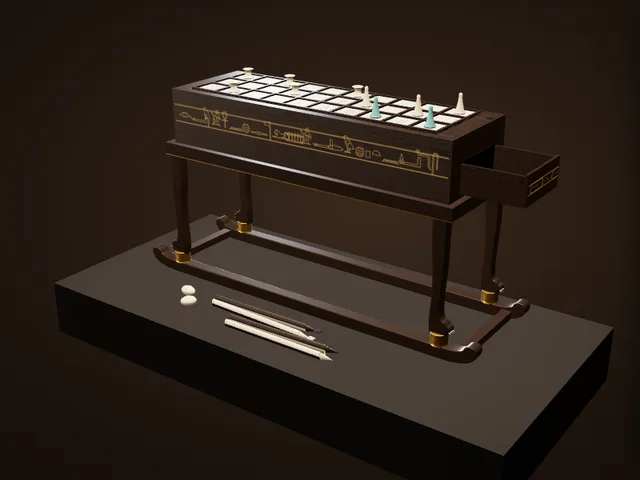
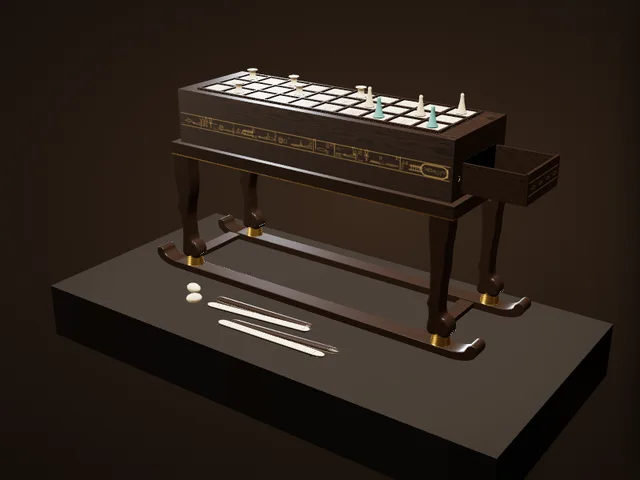
博物館：セネト盤の脚・そり・銘文帯・引き出し・投げ棒を博物館写真に合わせて作り直し
Claude-Session: https://claude.ai/code/session_01EiWRAZTxRF5M5nk5vdR2jJ

diff --git a/atlas/museum/ex/senet.js b/atlas/museum/ex/senet.js
@@ -35,13 +35,18 @@
       const textTex = (len, ht, glyphs) => { const PX = 1536, s = PX / len; return K.tex(PX, Math.round(ht * s), (g, w, h) => {
         g.drawImage(ebonyT.image, 0, 0, w, h); const yel = 'rgba(212,178,104,.9)';
         // one register of text between two incised lines, in the upper middle of the side (photographs in the Egyptian Museum)
-        const cy = h * (ht > 5 ? .42 : .5), bh = Math.min(h * .3, s * 2.4);
-        g.strokeStyle = yel; g.lineWidth = s * .08; [cy - bh / 2, cy + bh / 2].forEach(y => { g.beginPath(); g.moveTo(s * .35, y); g.lineTo(w - s * .35, y); g.stroke(); });
+        const cy = h * (ht > 5 ? .53 : .5), bh = Math.min(h * .34, s * 1.55);   // (the museum's side view: a narrow band a little below the middle)
+        g.strokeStyle = yel; g.lineWidth = s * .05; [cy - bh / 2 - s * .12, cy + bh / 2 + s * .12].forEach(y => { g.beginPath(); g.moveTo(s * .35, y); g.lineTo(w - s * .35, y); g.stroke(); });
         g.fillStyle = yel; g.textBaseline = 'middle'; const FS = bh * .9; g.font = `${Math.round(FS)}px ${HF}`;
         const cart = (x) => { const cw = s * 3.6, ch = bh * .92, y0 = cy - ch / 2; g.lineWidth = s * .09; g.beginPath(); g.roundRect(x, y0, cw, ch, ch / 2); g.stroke(); g.beginPath(); g.moveTo(x + cw, y0 + ch * .1); g.lineTo(x + cw, y0 + ch * .9); g.stroke();
           g.textAlign = 'center'; g.font = `${Math.round(FS * .7)}px ${HF}`; g.fillText('\u{131F3}\u{1319F}\u{133E5}\u{1339F}', x + cw / 2, cy); g.font = `${Math.round(FS)}px ${HF}`; g.textAlign = 'left'; return cw; };
         let x = s * 1.0; g.textAlign = 'left'; let i = 0;
-        while (x < w - s * 2) { const c = glyphs[i % glyphs.length]; if (c === 'C') { x += cart(x) + s * .4; } else { g.fillText(c, x, cy); x += Math.min(g.measureText(c).width, FS * 1.05) + s * .05; } i++; }
+        // signs set close, small ones stacked two high in one square (as Egyptian texts are composed); the king's name in its ring at the far end
+        const endX = w - s * (ht > 5 ? 4.6 : 1.0);
+        while (x < endX) { const c = glyphs[i % glyphs.length]; i++; if (c === 'C') continue;
+          if (i % 3 === 0) { const c2 = glyphs[(i * 7 + 3) % glyphs.length]; g.font = `${Math.round(FS * .52)}px ${HF}`; const wd = Math.max(g.measureText(c).width, c2 === 'C' ? 0 : g.measureText(c2).width); g.fillText(c, x, cy - bh * .25); if (c2 !== 'C') g.fillText(c2, x, cy + bh * .25); g.font = `${Math.round(FS)}px ${HF}`; x += Math.min(wd, FS * .7) + s * .06; }
+          else { g.fillText(c, x, cy); x += Math.min(g.measureText(c).width, FS * 1.0) + s * .04; } }
+        if (ht > 5) cart(w - s * 4.3);
       }); };
       const LINE = ['\u{13079}', '\u{1309D}', '\u{13190}', '\u{13000}', '\u{132F9}', '\u{13216}', '\u{1340D}', '\u{13283}', '\u{132B9}', '\u{130ED}', '\u{13290}', '\u{13000}', '\u{1309D}', '\u{1308B}', '\u{13171}', '\u{1340D}', '\u{132AA}', '\u{133CF}', '\u{13216}', '\u{1309E}', '\u{13193}', '\u{132F4}', '\u{1308B}', '\u{13000}', '\u{132B9}', 'C'];
       const sideT = textTex(L, BH, LINE), endT = textTex(W, BH, LINE.slice(4));
@@ -81,7 +86,8 @@
       dpart(.35, DHt, DWd, DL / 2 - .175, 0, 0, [K.mat({ map: dT, color: '#ffffff', roughness: .5, clearcoat: .35 }), ebony, ebony, ebony, ebony, ebony]);   // front
       dpart(DL - .35, DHt - .2, .3, -.175, -.1, DWd / 2 - .15); dpart(DL - .35, DHt - .2, .3, -.175, -.1, -DWd / 2 + .15);   // sides
       dpart(.3, DHt - .2, DWd - .6, -DL / 2 + .15, -.1, 0); dpart(DL - .35, .25, DWd - .6, -.175, -DHt / 2 + .125, 0, K.mat({ color: '#4a3324', roughness: .85 }));   // back, rough floor
-      [-3.2, 3.2].forEach(z => { const sc = new TT.Mesh(new TT.BoxGeometry(.05, .5, .9), K.mat({ color: '#2a1a10', roughness: .9 })); sc.position.set(DL / 2 + .01, 1.2, z); dg.add(sc); });   // where the bolt's staples were wrenched away
+      { const hm = K.mat({ color: '#0a0605', roughness: 1 }), hg = new TT.CylinderGeometry(.11, .11, .06, 10); hg.rotateZ(Math.PI / 2); [[-1.5, .45], [-1.5, -.45], [1.5, .45], [1.5, -.45]].forEach(([z, y]) => { const sc = new TT.Mesh(hg, hm); sc.position.set(DL / 2 + .005, y, z); dg.add(sc); }); }   // four small holes: the staples of the bolt, wrenched away (the museum's photograph)
+      { const st = new TT.Mesh(new TT.TorusGeometry(.32, .07, 8, 16, Math.PI), gold); st.rotation.set(0, Math.PI / 2, -Math.PI / 2); st.position.set(L / 2 + .02, Y0 + .9 + DHt / 2, DWd / 2 + .85); G.add(st); }   // one gold staple still on the box's end, beside the drawer   // where the bolt's staples were wrenched away
       const hole = new TT.Mesh(new TT.BoxGeometry(.05, DHt, DWd), K.mat({ color: '#080504', roughness: 1 })); hole.position.set(L / 2 + .03, Y0 + .9 + DHt / 2, 0); G.add(hole);   // the empty opening in the box's end
       /* ---------- pieces on the board, as the set is shown in the museum: reels and cones (ivory; two cones blue faience) ---------- */
       const faience = K.mat({ color: '#6fa9a0', roughness: .45, clearcoat: .3 });
@@ -97,43 +103,47 @@
       [[RL - 1.8, .3, .6, 0, RW / 2 - 1.2], [RL - 1.8, .3, .6, 0, -RW / 2 + 1.2]].forEach(([w, h, d, x, z]) => { const m = new TT.Mesh(new TT.BoxGeometry(w, h, d), ebony); m.position.set(x, Y0 - .15, z); G.add(m); });
       const gilt = (w, d, x, z) => { const m = new TT.Mesh(new TT.BoxGeometry(w, .14, d), gold); m.position.set(x, 20.2 - RH + .07, z); G.add(m); };   // gold bands at the foot of the frame
       gilt(RL + .02, .92, 0, RW / 2 - .45); gilt(RL + .02, .92, 0, -RW / 2 + .45);
-      // a feline leg seen from the side (paw forward to +x), extruded and rounded
-      const sh = new TT.Shape();
-      // (after the photographs: a slender, nearly straight leg, a little wider at the top, a slight backward bend above the ankle,
-      //  a lion's paw with spread toes on the drum)
-      sh.moveTo(-.85, 10.3); sh.quadraticCurveTo(-.95, 8.2, -.6, 6.4); sh.quadraticCurveTo(-.4, 4.2, -.55, 2.6); sh.quadraticCurveTo(-.75, 1.4, -.65, .4); sh.lineTo(-.6, .02);
-      sh.lineTo(1.25, .02); sh.quadraticCurveTo(1.75, .08, 1.65, .55); sh.quadraticCurveTo(1.5, .95, .95, 1.0); sh.quadraticCurveTo(.45, 1.15, .4, 2.0);
-      sh.quadraticCurveTo(.35, 3.4, .55, 4.8); sh.quadraticCurveTo(.75, 6.6, .7, 8.2); sh.quadraticCurveTo(.68, 9.4, .85, 10.3); sh.lineTo(-.85, 10.3);
-      const legG = new TT.ExtrudeGeometry(sh, { depth: 1.15, bevelEnabled: true, bevelThickness: .24, bevelSize: .22, bevelSegments: 4, curveSegments: 10 });
-      legG.translate(0, 0, -.575);
+      // the legs: a lion's — two forelegs at the drawer's end, two hind legs behind, all four facing the same way (the museum's side
+      // view): a broad block under the frame, the limb narrowing to the ankle, the hind legs bent back at the hock; the paw on a ribbed gold drum
+      const prof = pts => { const sh = new TT.Shape(); sh.moveTo(pts[0][0], pts[0][1]); sh.splineThru(pts.slice(1).map(([x, y]) => new TT.Vector2(x, y))); sh.closePath(); return sh; };
+      const PAW = [[-.62, .02], [.6, .0], [1.5, .0], [1.92, .2], [1.9, .72], [1.45, 1.12], [.85, 1.32]];
+      const fore = prof([[-1.25, 10.3], [-1.25, 9.4], [-1.05, 8.2], [-.78, 6.6], [-.66, 4.8], [-.7, 3.2], [-.92, 2.6], [-.7, 2.15], [-.62, 1.2], [-.78, .5], ...PAW, [.52, 1.9], [.5, 3.0], [.6, 4.4], [.86, 5.9], [.9, 7.4], [1.1, 8.6], [1.25, 9.4], [1.25, 10.3]]);
+      const hind = prof([[-1.25, 10.3], [-1.3, 9.4], [-1.42, 8.2], [-1.1, 6.9], [-.95, 5.9], [-1.3, 5.0], [-.78, 4.3], [-.52, 3.2], [-.5, 2.0], [-.72, .6], ...PAW, [.5, 1.9], [.36, 3.0], [.3, 4.2], [.62, 5.4], [1.15, 6.8], [1.32, 8.0], [1.25, 9.4], [1.25, 10.3]]);
+      const legOpt = { depth: 1.5, bevelEnabled: true, bevelThickness: .3, bevelSize: .28, bevelSegments: 5, curveSegments: 6 };
+      const foreG = new TT.ExtrudeGeometry(fore, legOpt), hindG = new TT.ExtrudeGeometry(hind, legOpt); [foreG, hindG].forEach(q => q.translate(0, 0, -.75));
       const clawG = new TT.ConeGeometry(.1, .4, 8); clawG.rotateZ(-Math.PI / 2);
-      const toeG = new TT.SphereGeometry(.2, 12, 8); toeG.scale(2.6, 2.9, .84);
-      const drumG = new TT.LatheGeometry([[0, -.9], [1.15, -.9], [1.2, -.75], [1.05, -.6], [1.18, -.45], [1.05, -.3], [1.18, -.15], [1.05, 0], [1.18, .15], [1.05, .3], [1.18, .45], [1.05, .6], [1.2, .75], [1.15, .9], [0, .9]].map(([x, y]) => new TT.Vector2(x, y)), 28);
-      const LX = RL / 2 - 1.6, LZ = RW / 2 - .9, LS = (20.2 - RH - 3.3) / 10.3;   // (the legs stretched to the stand's height)
+      const toeG = new TT.SphereGeometry(.2, 12, 8); toeG.scale(2.7, 2.9, .95);
+      const drumG = new TT.LatheGeometry([[0, -.9], [1.3, -.9], [1.36, -.78], [1.2, -.62], [1.3, -.46], [1.14, -.3], [1.24, -.14], [1.08, .02], [1.18, .18], [1.02, .34], [1.12, .5], [.98, .66], [1.06, .8], [1.0, .9], [0, .9]].map(([x, y]) => new TT.Vector2(x, y)), 28);
+      const RUN = .95, LX = RL / 2 - 1.9, LZ = RW / 2 - 1.05, LY = RUN + 1.8, LS = (20.2 - RH - LY) / 10.3;   // the runner's thickness; the legs stretched to the stand's height
       for (const sx of [1, -1]) for (const sz of [1, -1]) {
         const x = sx * LX, z = sz * LZ;
-        const leg = new TT.Mesh(legG, ebony); leg.position.set(x, 3.3, z); leg.scale.y = LS; leg.scale.x = sx; leg.scale.z = .85; G.add(leg);   // the paws face outwards, to the ends
-        // the lion's paw: four rounded toes side by side, an ivory claw at the tip of each (Carter: "ivory claws"; the photographs)
-        for (let k = -1.5; k <= 1.5; k++) { const t = new TT.Mesh(toeG, ebony); t.position.set(x + sx * 1.62, 3.3 + .74, z + k * .31); t.rotation.z = -sx * .35; G.add(t);
-          const c = new TT.Mesh(clawG, ivory); c.position.set(x + sx * 2.1, 3.3 + .3, z + k * .31); c.scale.x = sx; c.rotation.z = -sx * .5; G.add(c); }
-        const dr = new TT.Mesh(drumG, gold); dr.position.set(x + sx * .4, 1.45 + .9, z); G.add(dr);   // a gold drum, ribbed, under each paw
+        const leg = new TT.Mesh(sx > 0 ? foreG : hindG, ebony); leg.position.set(x, LY, z); leg.scale.set(1, LS, 1); G.add(leg);
+        for (let k = -1.5; k <= 1.5; k++) { const t = new TT.Mesh(toeG, ebony); t.position.set(x + 1.72, LY + .72, z + k * .42); t.rotation.z = -.35; G.add(t);
+          const c = new TT.Mesh(clawG, ivory); c.position.set(x + 2.22, LY + .3, z + k * .42); c.rotation.z = -.5; G.add(c); }
+        const dr = new TT.Mesh(drumG, gold); dr.position.set(x + .62, RUN + .9, z); G.add(dr);
+        const gb = new TT.Mesh(new TT.BoxGeometry(.42, 1.9, .1), gold); gb.position.set(x - .2, 20.2 - RH - 1.25, z - sz * 1.06); gb.rotation.z = .22; G.add(gb);   // the gilt strap inside the top of each leg
       }
-      // runners: long bars whose ends sweep up in a curl (the photographs), joined by a cross-bar near each end
-      const RLn = 55, RH2 = 1.45, rs = new TT.Shape(), E = RLn / 2;
-      rs.moveTo(-E + 5, 0); rs.lineTo(E - 5, 0); rs.bezierCurveTo(E - 1.6, 0, E, .8, E, 2.0); rs.quadraticCurveTo(E, 2.7, E - .7, 2.7); rs.quadraticCurveTo(E - 1.4, 2.7, E - 1.6, 2.1);
-      rs.bezierCurveTo(E - 1.9, 1.6, E - 3, RH2, E - 5, RH2); rs.lineTo(-E + 5, RH2); rs.bezierCurveTo(-E + 3, RH2, -E + 1.9, 1.6, -E + 1.6, 2.1);
-      rs.quadraticCurveTo(-E + 1.4, 2.7, -E + .7, 2.7); rs.quadraticCurveTo(-E, 2.7, -E, 2.0); rs.bezierCurveTo(-E, .8, -E + 1.6, 0, -E + 5, 0);
-      const runG = new TT.ExtrudeGeometry(rs, { depth: 1.5, bevelEnabled: true, bevelThickness: .12, bevelSize: .12, bevelSegments: 3, curveSegments: 16 }); runG.translate(0, 0, -.75);
+      // the sledge: two thin flat runners, both ends curling up; a flat cross-bar joins them inside each pair of feet
+      const RLn = 55, rs = new TT.Shape(), E = RLn / 2;
+      rs.moveTo(-E + 4.2, 0); rs.lineTo(E - 4.2, 0); rs.bezierCurveTo(E - 1.6, 0, E + .1, .7, E, 1.9); rs.quadraticCurveTo(E - .05, 2.55, E - .6, 2.55); rs.quadraticCurveTo(E - 1.15, 2.5, E - 1.3, 1.95);
+      rs.bezierCurveTo(E - 1.6, 1.3, E - 2.6, RUN, E - 4.2, RUN); rs.lineTo(-E + 4.2, RUN); rs.bezierCurveTo(-E + 2.6, RUN, -E + 1.6, 1.3, -E + 1.3, 1.95);
+      rs.quadraticCurveTo(-E + 1.15, 2.5, -E + .6, 2.55); rs.quadraticCurveTo(-E + .05, 2.55, -E, 1.9); rs.bezierCurveTo(-E - .1, .7, -E + 1.6, 0, -E + 4.2, 0);
+      const runG = new TT.ExtrudeGeometry(rs, { depth: 2.4, bevelEnabled: true, bevelThickness: .08, bevelSize: .08, bevelSegments: 2, curveSegments: 16 }); runG.translate(0, 0, -1.2);
       [LZ, -LZ].forEach(z => { const m = new TT.Mesh(runG, ebony); m.position.set(0, 0, z); G.add(m); });
-      [LX + 3.4, -LX - 3.4].forEach(x => { const m = new TT.Mesh(new TT.BoxGeometry(1.4, 1.1, 2 * LZ), ebony); m.position.set(x, .75, 0); G.add(m); });
+      [LX - 2.2, -LX - 2.6].forEach(x => { const m = new TT.Mesh(new TT.BoxGeometry(2.2, .7, 2 * LZ - 2.2), ebony); m.position.set(x, .5, 0); G.add(m); });
       /* ---------- the pieces kept with it: two knuckle-bones and two pairs of casting sticks (black ebony over white ivory) ---------- */
-      const stick = (x, z, ry, up, fox) => { const g = new TT.Group(); g.position.set(x, .35, z); g.rotation.y = ry; G.add(g);
-        const half = (m, top) => { const h = new TT.Mesh(new TT.CylinderGeometry(.55, .55, 15.5, 16, 1, false, top ? 0 : Math.PI, Math.PI), m); h.rotation.z = Math.PI / 2; h.scale.set(1, 1, .6); g.add(h); };
-        half(up ? ebony : ivory, true); half(up ? ivory : ebony, false); g.rotation.x = 0;
-        const tip = new TT.Mesh(new TT.ConeGeometry(.5, 1.9, 12), up ? ebony : ivory); tip.rotation.z = -Math.PI / 2; tip.position.x = 8.7; tip.scale.set(1, 1, .6); g.add(tip);
-        if (fox) [-1, 1].forEach(k => { const e = new TT.Mesh(new TT.ConeGeometry(.16, .5, 8), up ? ebony : ivory); e.position.set(8.2, .45, k * .22); g.add(e); });
-        else for (let k = -1; k <= 1; k++) { const f = new TT.Mesh(new TT.CapsuleGeometry(.11, .8, 4, 8), up ? ebony : ivory); f.rotation.z = Math.PI / 2; f.position.set(9.6, .1, k * .26); g.add(f); } };
-      stick(-3, 12.2, .02, 1, 0); stick(-2.6, 13.8, -.03, 0, 0); stick(2.4, 15.4, .04, 1, 1); stick(2.8, 17.0, .01, 0, 1);
+      // a casting stick (Carter): a half-round rod about 17.5 long, the rounded back black ebony, the flat face white ivory; one pair
+      // ends in a finger-tip with its nail, the other in a fox's head. Two lie back up, two face up.
+      const dsh = new TT.Shape(); dsh.moveTo(-.62, 0); dsh.lineTo(.62, 0); dsh.absarc(0, 0, .62, 0, Math.PI, false); dsh.closePath();
+      const rodG = new TT.ExtrudeGeometry(dsh, { depth: 14.6, bevelEnabled: false, curveSegments: 12 }); rodG.scale(1, .62, 1); rodG.rotateY(Math.PI / 2); rodG.translate(-7.3, 0, 0);
+      const faceG = new TT.BoxGeometry(14.6, .1, 1.2);
+      const stick = (x, z, ry, up, fox) => { const g = new TT.Group(); g.position.set(x, up ? .1 : .5, z); g.rotation.y = ry; if (!up) g.rotation.x = Math.PI; G.add(g);
+        const A = (geo, m, px, py, pz) => { const o = new TT.Mesh(geo, m); o.position.set(px, py, pz); g.add(o); return o; };
+        A(rodG, ebony, 0, 0, 0); A(faceG, ivory, 0, -.04, 0);
+        [-1, 1].forEach(e => { const cap = A(new TT.SphereGeometry(.62, 12, 8, 0, Math.PI * 2, 0, Math.PI / 2), ebony, e * 7.3, 0, 0); cap.scale.set(fox && e > 0 ? 2.6 : 1.5, .62, 1); const ci = A(new TT.CylinderGeometry(.6, .6, .1, 12), ivory, e * 7.3, -.04, 0); ci.scale.set(fox && e > 0 ? 2.6 : 1.5, 1, 1); });
+        if (fox) { [-1, 1].forEach(k => { const ear = A(new TT.ConeGeometry(.2, .75, 8), ebony, 7.0, .36, k * .36); ear.rotation.z = .9; }); [-1, 1].forEach(k => A(new TT.SphereGeometry(.08, 8, 6), ivory, 7.9, .3, k * .3)); }
+        else { const nail = A(new TT.SphereGeometry(.4, 12, 8), K.mat({ color: '#3a2a22', roughness: .35 }), 7.75, .3, 0); nail.scale.set(1, .25, .9); [6.3, 6.6].forEach(px => { const j = A(new TT.TorusGeometry(.55, .03, 4, 12, Math.PI), K.mat({ color: '#120b08', roughness: .8 }), px, .02, 0); j.rotation.y = Math.PI / 2; j.scale.y = .62; }); } };
+      stick(-3, 12.6, .05, 1, 0); stick(-2.4, 14.6, -.12, 0, 0); stick(3.2, 16.4, .1, 1, 1); stick(2.4, 18.3, -.04, 0, 1);
       [[-15.5, 13.2], [-13.2, 15.6]].forEach(([x, z], i) => { const kb = new TT.Mesh(new TT.SphereGeometry(1, 16, 12), ivory); kb.scale.set(1.15, .7, .8); kb.position.set(x, .6, z); kb.rotation.y = i * .9; G.add(kb);
         const n = new TT.Mesh(new TT.TorusGeometry(.45, .14, 8, 16), ivory); n.position.set(x, 1.05, z); n.rotation.x = Math.PI / 2; G.add(n); });
       return G;

diff --git a/atlas/museum.js b/atlas/museum.js
@@ -32,7 +32,7 @@
   const ROOMS = [
     { id: 'map', ready: () => !!window.AtlasMap, render: (el, c) => AtlasMap.render(el, c) },
     { id: 'tree', src: ['museum/tree.js?v=3'], ready: () => !!window.AtlasTree, render: (el, c) => AtlasTree.render(el, c) },
-    { id: 'gallery', src: ['museum/gallery.js?v=41'], ready: () => !!window.AtlasGallery, render: (el, c) => AtlasGallery.render(el, c) },
+    { id: 'gallery', src: ['museum/gallery.js?v=42'], ready: () => !!window.AtlasGallery, render: (el, c) => AtlasGallery.render(el, c) },
   ];
   const KEY = 'atlas-museum-room';
   const esc = s => String(s == null ? '' : s).replace(/[&<>"]/g, c => ({ '&': '&amp;', '<': '&lt;', '>': '&gt;', '"': '&quot;' }[c]));

diff --git a/atlas/index.html b/atlas/index.html
@@ -2559,7 +2559,7 @@ window.AtlasRgdTimer = function (btn, ms, alive) {
 <link rel="stylesheet" href="worldmap.css?v=19">
 <link rel="stylesheet" href="museum.css?v=4">
 <script src="worldmap.js?v=40"></script>
-<script src="museum.js?v=42"></script>
+<script src="museum.js?v=43"></script>
 <script src="npc/npc.js?v=46"></script>
 <script src="avtalk.js?v=4"></script>
 <script>/* Page states as classes on <html> (2026-11-21) — html.cov-on: the 3D view / Historia / a sheet / a level sheet is open;

diff --git a/atlas/museum/gallery.js b/atlas/museum/gallery.js
@@ -10,7 +10,7 @@
    (a turn, a zoom, the slow turntable) and never while the window is in the background. */
 (function () {
   'use strict';
-  const V = 41;
+  const V = 42;
   /* ---------- the pieces: id, the game it belongs to, its scale (cm per model unit), the camera's start, the details ----------
      lock: { game, ach } → open after that many achievements of the game. src: the files the piece needs (besides ex/<id>.js) */
   const EX = [

diff --git a/claude/museum-spec.md b/claude/museum-spec.md
@@ -61,6 +61,7 @@
   - **照明と白飛び（2026-11-21）**：平らでつやのある盤は、平行光がカメラの反対側にあると天面全体が白く光る（遠目のちらつき・白飛びの主因だった）。ビューアの光は、主光＝ほぼ真上（約82°）のスポット、リム光と補助光＝テーブルとほぼ水平（天面には当てない）、部屋の映り込みは半分（`environmentIntensity .5`）、そのぶん半球光を上げる。確認は `AtlasGallery._v()`（開いているビューア）を使い、ヨー12方向×ピッチ5段で画面中央の明るさを測る（急に明るくなる角度がないこと）。
   - **細い明るい形状は作らない**：幅数ミリの象牙の線などを箱で置くと遠目でちらつく。テクスチャに描く（ミップマップで平均される）。ちらつきの測り方：スマホ相当の画面でいちばん遠くまで引き、0.035°ずつ回した3枚の差（ウルの盤が基準：差が30を超える画素 0.00%）。
   - **合格の基準（2026-11-22 ユーザー指示）**：「それっぽい」は不合格。実物の写真と並べて、部品の形・数・位置・文様の構成が一致すること。写真を拡大して寸法を測り（px→cm）、その数値で描く。推定で埋めた部分は説明文に明記する。
+    - セネト盤：エジプト博物館の側面写真に合わせ、脚を獅子の前脚2本・後脚2本（4本とも引き出し側を向く）に、そりを薄い板に、銘文の帯を側面の中ほどの細い帯に、引き出しは取手なし（留め金の穴4つと箱側の金の留め輪1つ）、投げ棒を半円断面（背は黒檀・平らな面は象牙、指先形と狐頭形）に。全高はカーターの記録（28cm）のまま。
     - ダイスタワー：博物館写真に合わせて描き直し（青灰色の錫引き、正面板は階段の上で終わる、太い等幅の大文字、側面は四弁の小孔＋八弁ロゼットの方形2段、松かさ3つ、右前の玉縁、丸い4段の階段、鈴）。
     - オスマン盤バックギャモン面：V&A カラー写真 2012FP3720 を測って描き直し（杯＋首＋肩つきの穂先の糸杉形、点の間の貝の板の帯、穂先の下のパルメットと持ち送り・尖頭アーチ、中央の狭・広・狭の3帯）。
   - **スマホのテクスチャ上限**：スマホ（幅820px未満）では、読み込み時に長辺1536pxを超えるテクスチャを1536pxに縮める（gallery.js の small()。2048²は1枚22MB）。
